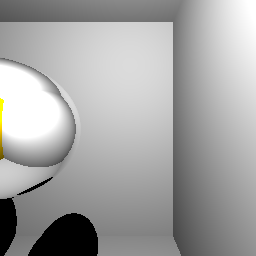
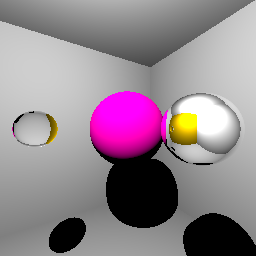
BE 2 - Extra Add Movement
Need to press ENTER

diff --git a/main.cpp b/main.cpp
@@ -5,6 +5,7 @@
 
 #include <ncurses.h>
 
+#include "src/Camera/Camera.h"
 #include "src/Vector/Vector.h"
 #include "src/Ray/Ray.h"
 #include "src/Sphere/Sphere.h"
@@ -32,7 +33,7 @@ double clamp(const double& v, const double& low, const double& high) {
 // ===== ===== ===== ===== Main
 // ===== ===== ===== =====
 
-void refresh(std::string filename, std::thread threads[NB_THREAD_GRID * NB_THREAD_GRID], const int step, double z, Environment& E, const int W, const int H, Vector& C, double rho, double I, double I_pow_factor, std::vector<unsigned char>& image) {
+void refresh(std::string filename, std::thread threads[NB_THREAD_GRID * NB_THREAD_GRID], const int step, double z, Environment& E, const int W, const int H, Camera& C, double rho, double I, double I_pow_factor, std::vector<unsigned char>& image) {
     auto start = std::chrono::high_resolution_clock::now();
     for (int x = 0; x < NB_THREAD_GRID; x++)    
     {
@@ -45,7 +46,7 @@ void refresh(std::string filename, std::thread threads[NB_THREAD_GRID * NB_THREA
                     for (int j = x * step; j < std::min(W, (x + 1) * step); j++) {    
                         Vector u = Vector(j - W / 2 + 0.5, H - i - H / 2 + 0.5, z);
                         u.normalize();
-                        Ray r = Ray(C, u);
+                        Ray r = Ray(C.get_position(), C.look_from(u));
 
                         Vector P, N;
                         int sphere_index;
@@ -116,10 +117,10 @@ int main(int argc, char* argv[]) {
     E.add_light(Vector(30, 30, 25));
     // E.add_light(Vector(-20, -20, -15));
     
-
-    Vector C = Vector(0, 0, 40);
+    // Camera
+    Camera C = Camera(Vector(0, 0, 40));
     double alpha = 90 * M_PI / 180;
-    double z = - W / (2 * tan(alpha / 2));
+    double z = - PIXELS_DIMENSION / (2 * tan(alpha / 2));
 	
 	std::vector<unsigned char> image(W*H * 3, 0);
 
@@ -127,6 +128,7 @@ int main(int argc, char* argv[]) {
     double I = 1e10;
     double I_pow_factor = 1. / 2.2;
 
+    std::string mvt_sequence = "";
     bool is_alive = true;
     char c = ' ';
     while (is_alive) {
@@ -135,22 +137,25 @@ int main(int argc, char* argv[]) {
         switch (c)
         {
         case 'z':
-            C[2] -= 1;
+            C.move_forward(1.);
             break;
         case 's':
-            C[2] += 1;
+            C.move_forward(-1.);
             break;
         case 'q':
-            C[0] -= 1;
+            C.rotate(- M_PI / 12);
             break;
         case 'd':
-            C[0] += 1;
+            C.rotate(+ M_PI / 12);
             break;
         default:
             is_alive = false;
             break;
         }
+        mvt_sequence += c;
     }
+
+    std::cout << "Movement Sequence:\n" << mvt_sequence;
 
     
 	

diff --git a/src/Camera/Camera.cpp b/src/Camera/Camera.cpp
@@ -1,0 +1,57 @@
+#include "Camera.h"
+
+Camera::Camera()
+{
+}
+
+Camera::Camera(const Vector& p)
+{
+    position = p;
+}
+
+Camera::Camera(const Vector& p, double a)
+{
+    position = p;
+    angle = a;
+}
+
+Camera::~Camera()
+{
+}
+
+const Vector Camera::get_position()
+{
+    return position;
+}
+
+void Camera::move_forward(double d)
+{
+    Vector direction_xz = Vector(0, 0, -1);
+    direction_xz.normalize();
+    position = position + look_from(direction_xz) * 2. * d;
+}
+
+void Camera::rotate(double a)
+{
+    angle += a;
+    while (angle > 2 * M_PI) {
+        angle -= 2 * M_PI;
+    }
+
+    while (angle < 0) {
+        angle += 2 * M_PI;
+    }
+}
+
+Vector Camera::look_from(const Vector& v)
+{
+    double x = v[0];
+    double z = v[2];
+    double cos_a = std::cos(angle);
+    double sin_a = std::sin(angle);
+
+    Vector v_oriented = Vector(x * cos_a - z * sin_a, v[1], x * sin_a + z * cos_a);
+    v_oriented.normalize();
+
+    return v_oriented;
+}

diff --git a/src/Camera/Camera.h b/src/Camera/Camera.h
@@ -1,0 +1,26 @@
+#ifndef DEF_CAMERA
+#define DEF_CAMERA
+
+#include "../Vector/Vector.h"
+
+class Camera
+{
+private: 
+    Vector position = Vector();
+    double angle = .0;
+public:
+    Camera();
+    Camera(const Vector&);
+    Camera(const Vector&, double);
+
+    const Vector get_position();
+
+    void move_forward(double);
+    void rotate(double);
+    Vector look_from(const Vector&);
+
+    ~Camera();
+};
+
+
+#endif

diff --git a/README.md b/README.md
@@ -1,3 +1,5 @@
+![Mouvement dans l'espace](./outputs/be2-extra-movement.gif)
+
 # ecl-mos22-informatique-graphique
 Travail réalisé pour le MOS 2.2 - Informatique Graphique à l'École Centrale de Lyon. L'objectif est d'implémenter un PathTracer en C++
 
@@ -29,6 +31,26 @@ make
 ```
 
 > Pour compiler et exécuter le code : `make && ./InformatiqueGraphique`
+
+# Comment se déplacer
+
+> Séquence utiliser pour la présentation : `zzzzzzddddddzzzzzzzzzqqqqqzzzzzzzzqqqqqsssss`
+
+1. Lancer le programme comme précedement
+2. Utiliser `zqsd` pour se déplacer
+ - `z` : en avant
+ - `s` : en arrière
+ - `q` : tourner à gauche
+ - `d` : tourner à droite
+3. `ENTER` pour valider la suite de mouvements (tu peux entrer plus d'un déplacement à la fois pour une animation plus longue)
+
+Par exemple, si je souhaite faire deux pas en avant puis regarder à gaude de deux crans, je peux entrer : 
+
+```
+zzqq
+```
+
+Puis `ENTER` (le programme ne s'actualise pas tant que tu ne cliques pas sur `ENTER`, c'est une limitation que je vais essayer de corriger prochainement)
 
 # Notes
 - [x] Calcul parallèle avec `<thread>`
@@ -123,9 +145,9 @@ int main(int argc, char* argv[]) {
 
 > Temps pour la création de l'image: 233.621ms
 
-## Améliorations
+## BE 1 - Extra
 
-## Parallélisation
+### Parallélisation
 
 ```c++
 #include <thread>
@@ -180,4 +202,14 @@ if (x == y)
 
 > Temps pour la création de l'image: 41.6291ms
 
+# BE 2
 
+## Objectif
+
+- Construire des ombres projetées
+- Construire des matériaux réfléchissants
+- Construire des matériaux transparents
+
+## BE 2 - Extra
+
+### Déplacement dans l'espace

diff --git a/src/Camera/README.md b/src/Camera/README.md
@@ -1,0 +1,59 @@
+# Camera
+
+```c++
+Camera::Camera()
+{
+}
+
+Camera::Camera(const Vector& p)
+{
+    position = p;
+}
+
+Camera::Camera(const Vector& p, double a)
+{
+    position = p;
+    angle = a;
+}
+
+Camera::~Camera()
+{
+}
+```
+
+```c++
+void Camera::move_forward(double d)
+{
+    Vector direction_xz = Vector(0, 0, -1);
+    direction_xz.normalize();
+    position = position + look_from(direction_xz) * 2. * d;
+}
+
+```
+
+```c++
+void Camera::rotate(double a)
+{
+    angle += a;
+    while (angle > 2 * M_PI) {
+        angle -= 2 * M_PI;
+    }
+
+    while (angle < 0) {
+        angle += 2 * M_PI;
+    }
+}
+
+Vector Camera::look_from(const Vector& v)
+{
+    double x = v[0];
+    double z = v[2];
+    double cos_a = std::cos(angle);
+    double sin_a = std::sin(angle);
+
+    Vector v_oriented = Vector(x * cos_a - z * sin_a, v[1], x * sin_a + z * cos_a);
+    v_oriented.normalize();
+
+    return v_oriented;
+}
+```
